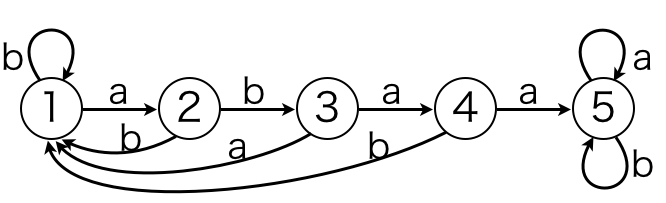
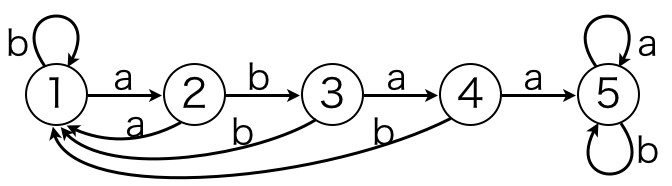
fix DFA samples

Changed region(s): [[0.0, 0.0806, 0.991, 0.9677], [0.9309, 0.7258, 0.991, 0.8871]]

diff --git a/competition/Statement.md b/competition/Statement.md
@@ -69,7 +69,7 @@ bbababa
 出力例１
 
 ```
-4
+2
 ```
 "abaa"というパターンが含まれるかどうかを判定するオートマトンです。
 ![fig1](fig1.png)
@@ -77,7 +77,7 @@ bbababa
 入力例２
 
 ```
-1
+2
 2 1
 1 2
 ababbaba
